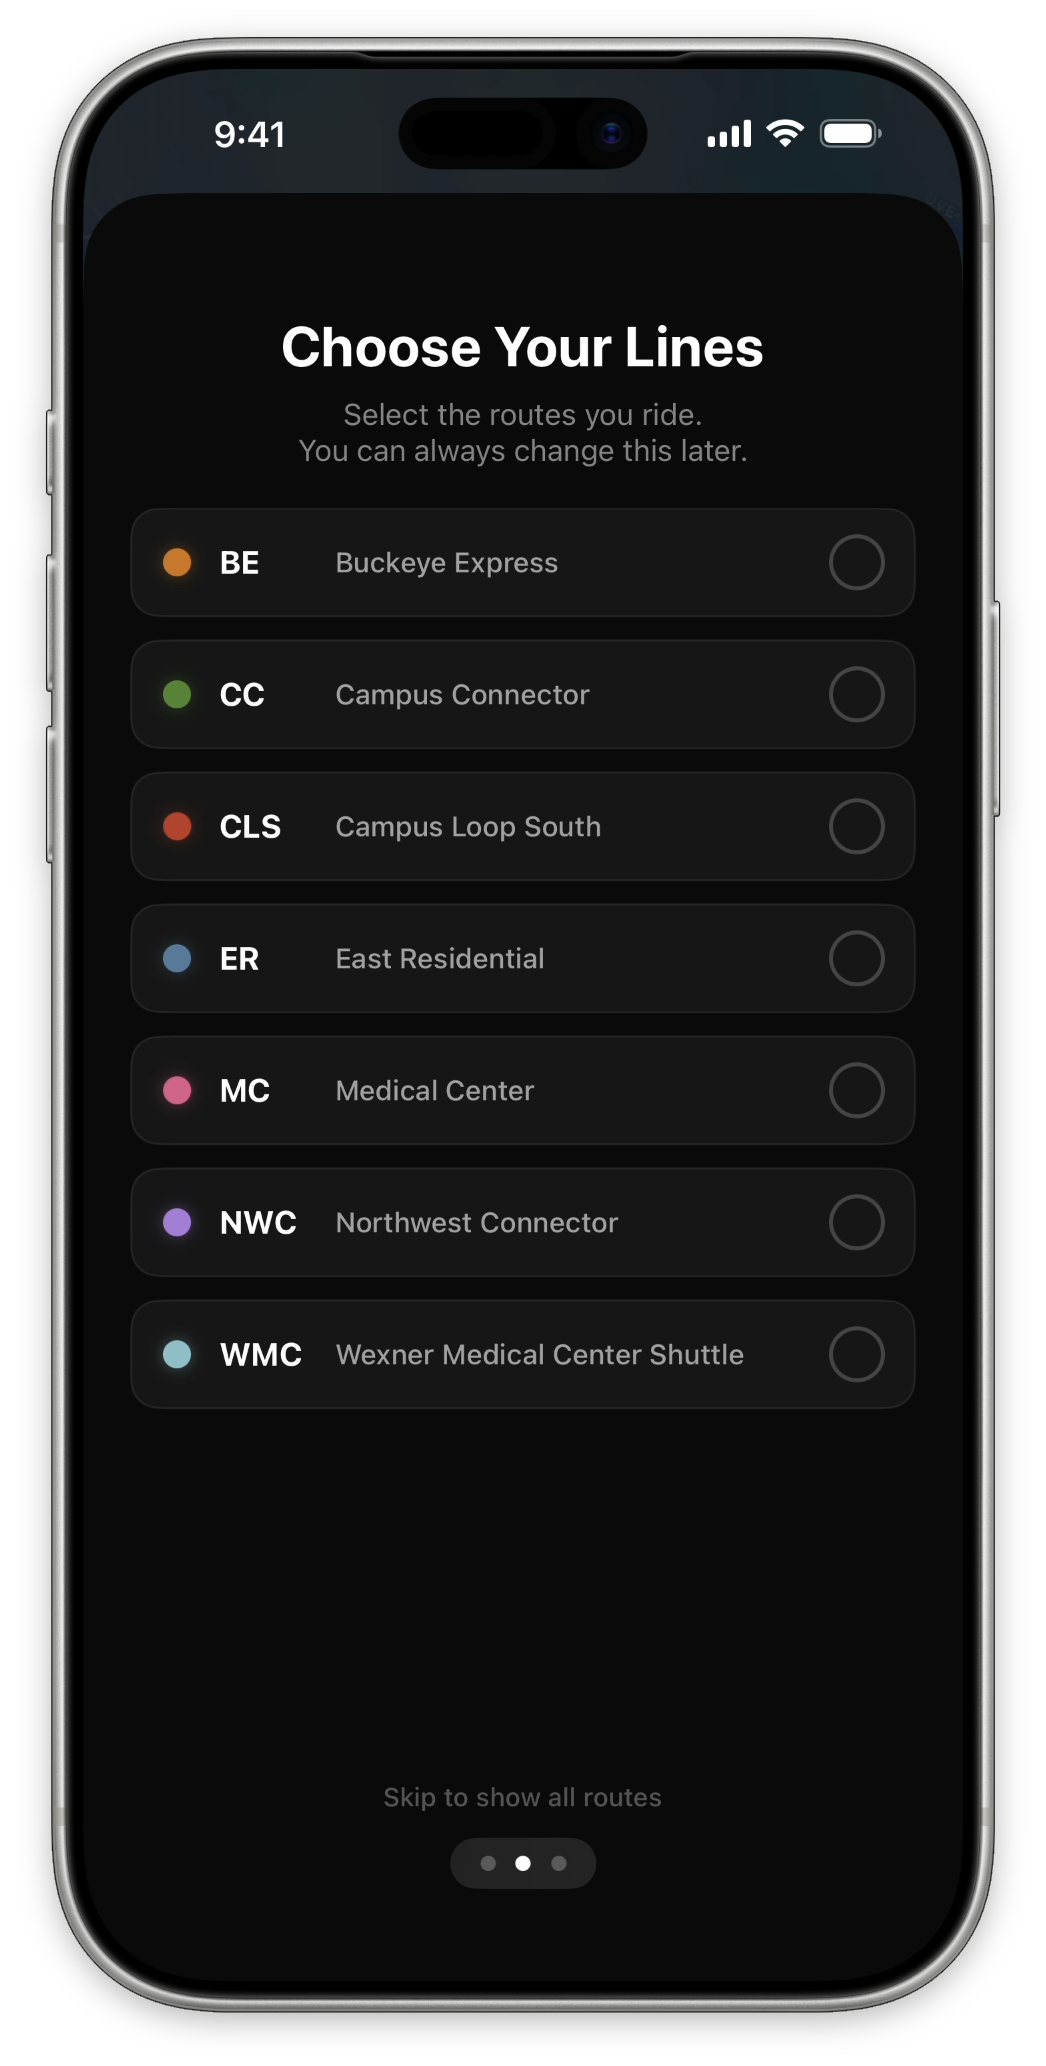
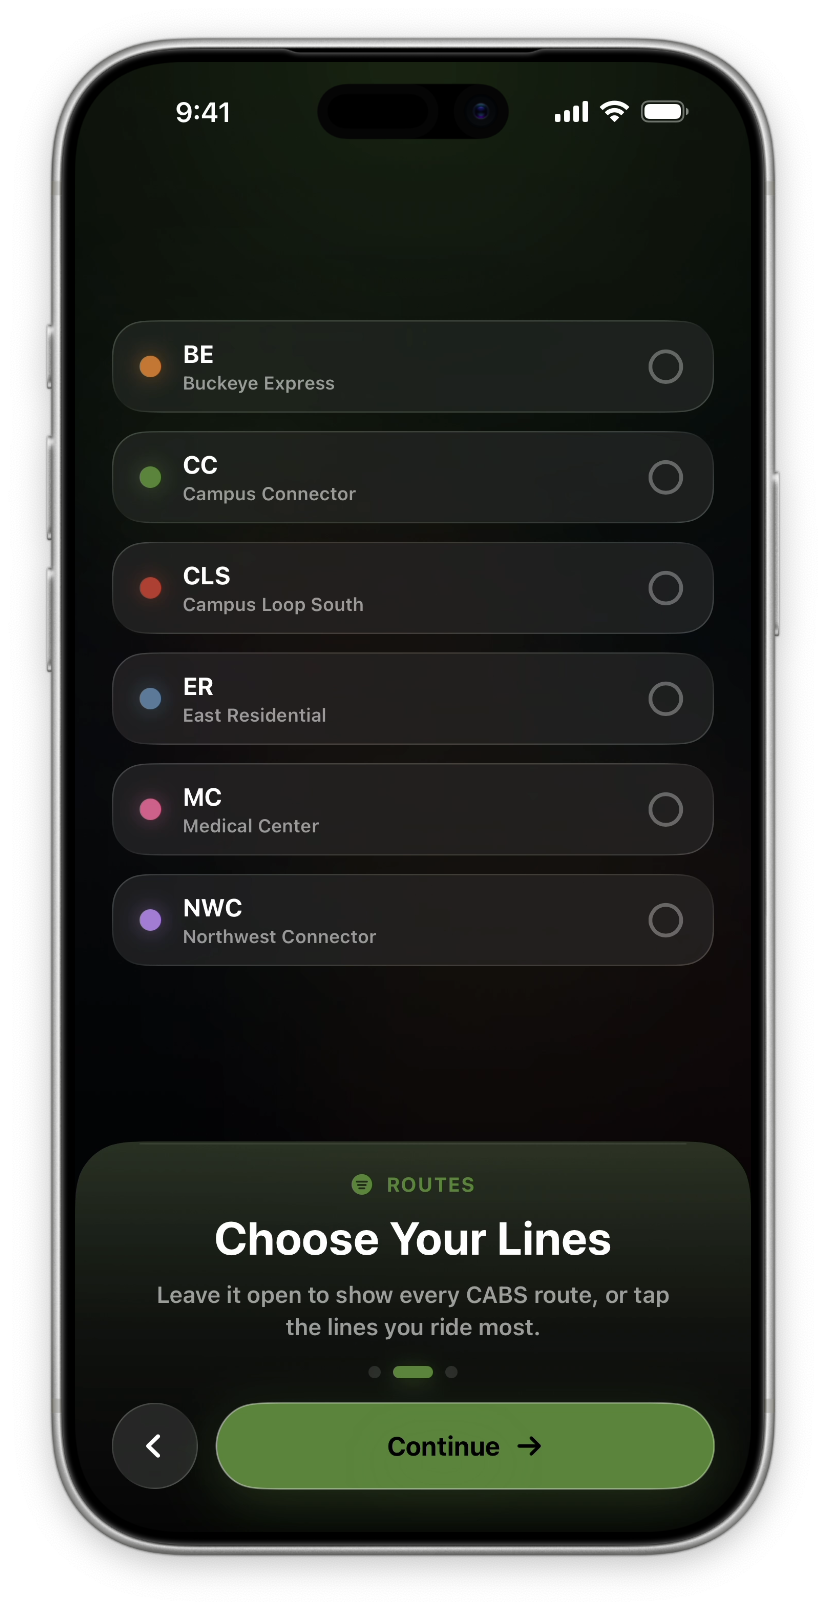
update CABSFlight project with newest design assets

Changed region(s): [[0.0303, 0.0, 0.9685, 0.9938], [0.4843, 0.5901, 0.5751, 0.6211]]

diff --git a/js/data.js b/js/data.js
@@ -156,34 +156,46 @@ export const pages = {
                     <div class="ag-skill-category">
                         <h3>Languages</h3>
                         <div class="ag-skill-chips">
-                            <span class="ag-skill-chip">JavaScript (ES6+)</span>
-                            <span class="ag-skill-chip">HTML5/CSS3</span>
-                            <span class="ag-skill-chip">Objective-C</span>
-                            <span class="ag-skill-chip">Python</span>
+                            <span class="ag-skill-chip">C</span>
                             <span class="ag-skill-chip">C++</span>
-                            <span class="ag-skill-chip">Assembly (MSP430)</span>
+                            <span class="ag-skill-chip">Objective-C</span>
+                            <span class="ag-skill-chip">Swift</span>
+                            <span class="ag-skill-chip">Python</span>
+                            <span class="ag-skill-chip">Java</span>
                         </div>
                     </div>
 
                     <div class="ag-skill-category">
-                        <h3>Engineering & Hardware</h3>
+                        <h3>Systems & Tools</h3>
                         <div class="ag-skill-chips">
-                            <span class="ag-skill-chip">Microcontrollers</span>
-                            <span class="ag-skill-chip">System Teardown</span>
-                            <span class="ag-skill-chip">Circuit Analysis</span>
-                            <span class="ag-skill-chip">Component Diagnostics</span>
-                        </div>
-                    </div>
-
-                    <div class="ag-skill-category">
-                        <h3>Design & Tools</h3>
-                        <div class="ag-skill-chips">
-                            <span class="ag-skill-chip">VS Code</span>
-                            <span class="ag-skill-chip">AI-Assisted Dev</span>
-                            <span class="ag-skill-chip">Figma</span>
                             <span class="ag-skill-chip">Git/GitHub</span>
+                            <span class="ag-skill-chip">VS Code</span>
                             <span class="ag-skill-chip">Chrome DevTools</span>
-                            <span class="ag-skill-chip">Onshape</span>
+                            <span class="ag-skill-chip">Unix/Linux CLI</span>
+                            <span class="ag-skill-chip">Hardware Troubleshooting</span>
+                        </div>
+                    </div>
+
+                    <div class="ag-skill-category">
+                        <h3>Web/App</h3>
+                        <div class="ag-skill-chips">
+                            <span class="ag-skill-chip">HTML5</span>
+                            <span class="ag-skill-chip">CSS3 (Flexbox/Grid)</span>
+                            <span class="ag-skill-chip">JavaScript (ES6+)</span>
+                            <span class="ag-skill-chip">React</span>
+                            <span class="ag-skill-chip">RESTful APIs</span>
+                            <span class="ag-skill-chip">AI-assisted prototyping</span>
+                        </div>
+                    </div>
+
+                    <div class="ag-skill-category">
+                        <h3>Design & Visual</h3>
+                        <div class="ag-skill-chips">
+                            <span class="ag-skill-chip">Figma</span>
+                            <span class="ag-skill-chip">Adobe Illustrator/Photoshop</span>
+                            <span class="ag-skill-chip">Material 3 Design System</span>
+                            <span class="ag-skill-chip">Responsive Layouts</span>
+                            <span class="ag-skill-chip">Typography</span>
                         </div>
                     </div>
                 </div>

diff --git a/css/antigravity.css b/css/antigravity.css
@@ -8,8 +8,7 @@
 /* ==========================================================================
    1. FOUNDATIONS: Google Fonts
    ========================================================================== */
-@import url('https://fonts.googleapis.com/css2?family=Inter:wght@400;500;600&display=swap');
-@import url('https://fonts.googleapis.com/css2?family=JetBrains+Mono:wght@400;500&display=swap');
+@import url('https://fonts.googleapis.com/css2?family=Google+Sans+Flex:opsz,wght@6..144,400..700&family=JetBrains+Mono:wght@400;500&display=swap');
 
 /* ==========================================================================
    2. DESIGN TOKENS - System Adaptive Theme
@@ -72,7 +71,7 @@
 
     /* === Static Tokens (same in both modes) === */
     /* Typography */
-    --ag-font-display: 'Inter', -apple-system, BlinkMacSystemFont, sans-serif;
+    --ag-font-display: 'Google Sans Flex', 'Inter', -apple-system, BlinkMacSystemFont, sans-serif;
     --ag-font-mono: 'JetBrains Mono', 'SF Mono', Consolas, monospace;
     --ag-tracking-tight: -0.03em;
     --ag-tracking-normal: 0;
@@ -1121,7 +1120,7 @@ img {
 
 /* The image keeps the phone aspect ratio */
 .ag-iphone .ag-iphone-img {
-    aspect-ratio: 1046 / 2066;
+    aspect-ratio: 826 / 1610;
 }
 
 /* Center phone — elevated (no Y offset), slightly larger, stronger shadow */
@@ -1183,7 +1182,8 @@ img {
 
 /* ── CTA button — portfolio style ── */
 .ag-showcase-cta {
-    margin-top: 16px;
+    /* Align the CTA centerline with the lowered side-phone labels. */
+    margin-top: 36px;
     z-index: 10;
 }
 
@@ -1331,6 +1331,7 @@ img {
     .ag-iphone           { width: min(30vw, 200px); transform: translateY(40px); }
     .ag-iphone--featured { width: min(33vw, 220px); transform: translateY(0); }
     .ag-iphone-label     { font-size: 0.55rem; margin-top: 10px; }
+    .ag-showcase-cta     { margin-top: 18px; }
 }
 
 @media (max-width: 480px) {
@@ -1338,4 +1339,5 @@ img {
     .ag-iphone           { width: 29vw; transform: translateY(28px); }
     .ag-iphone--featured { width: 32vw; }
     .ag-iphone-label     { font-size: 0.48rem; letter-spacing: 0.04em; margin-top: 8px; }
+    .ag-showcase-cta     { margin-top: 6px; }
 }